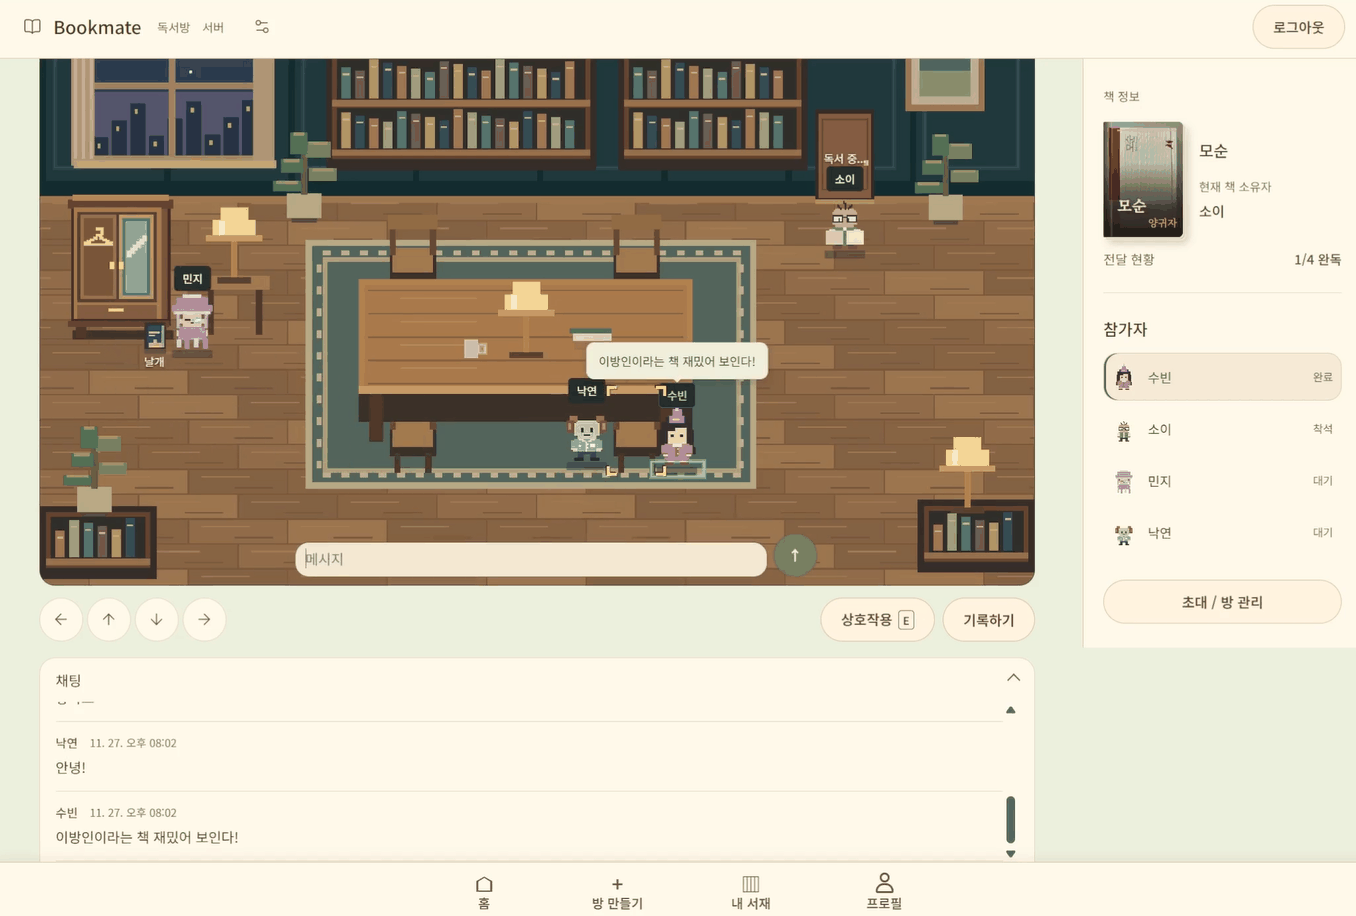
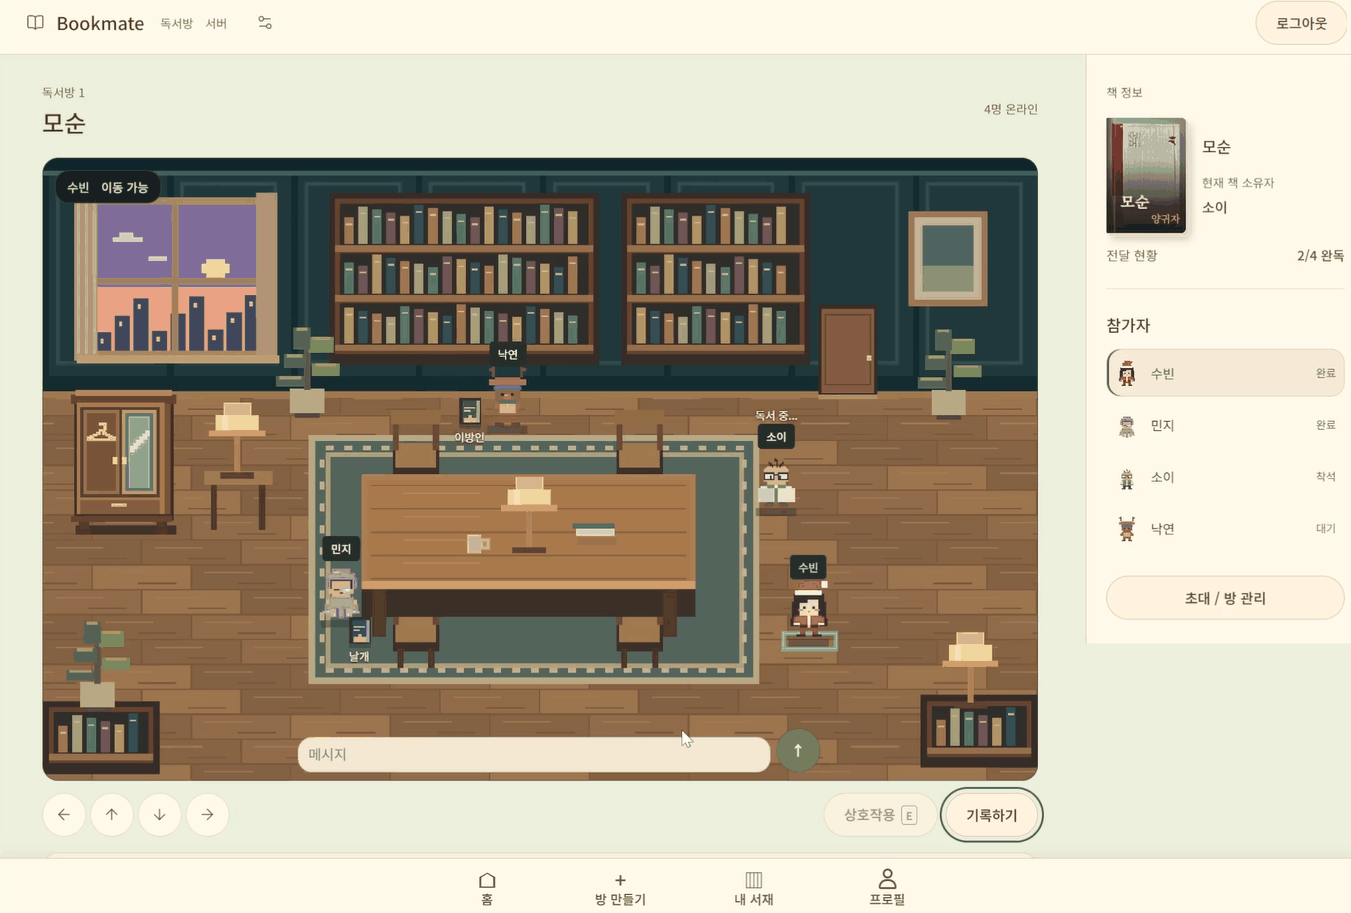
docs: README 대표 사진 교체와 내 서재 캡처 추가
Claude-Session: https://claude.ai/code/session_01TTMaubjA4Mkdg5wsGZAS9M

diff --git a/README.md b/README.md
@@ -16,7 +16,7 @@
 
 **[🔗 ssubookmate.duckdns.org 에서 바로 써보기](https://ssubookmate.duckdns.org/)**
 
-<img src="docs/screenshots/reading-room.png" alt="네 명이 모인 픽셀 독서방에서 채팅하는 모습" width="900">
+<img src="docs/screenshots/reading-room.png" alt="네 명이 모여 함께 읽고 있는 픽셀 독서방" width="900">
 
 </div>
 
@@ -74,7 +74,7 @@
 
 | 히스토리와 완료 티켓 | 내 서재 |
 | :---: | :---: |
-| <img src="docs/screenshots/history-ticket.png" alt="감상평 히스토리와 완료 티켓" width="520"> | <img src="docs/screenshots/bookshelf.png" alt="내 서재에 꽂힌 책" width="300"> |
+| <img src="docs/screenshots/history-ticket.png" alt="감상평 히스토리와 완료 티켓" width="520"> | <img src="docs/screenshots/bookshelf.png" alt="완독한 책이 꽂힌 내 서재" width="300"><br><img src="docs/screenshots/bookshelf-book.png" alt="서재에서 책을 눌렀을 때" width="300"> |
 | 참가자별 감상평을 넘겨 보고, 함께 읽은 사람과 완료 날짜가 적힌 티켓을 PNG로 저장해요. | 완독한 책이 책장에 꽂혀요. 책을 누르면 감상평을 고치거나 히스토리로 이동해요. |
 
 ### 7. 방 나가기
